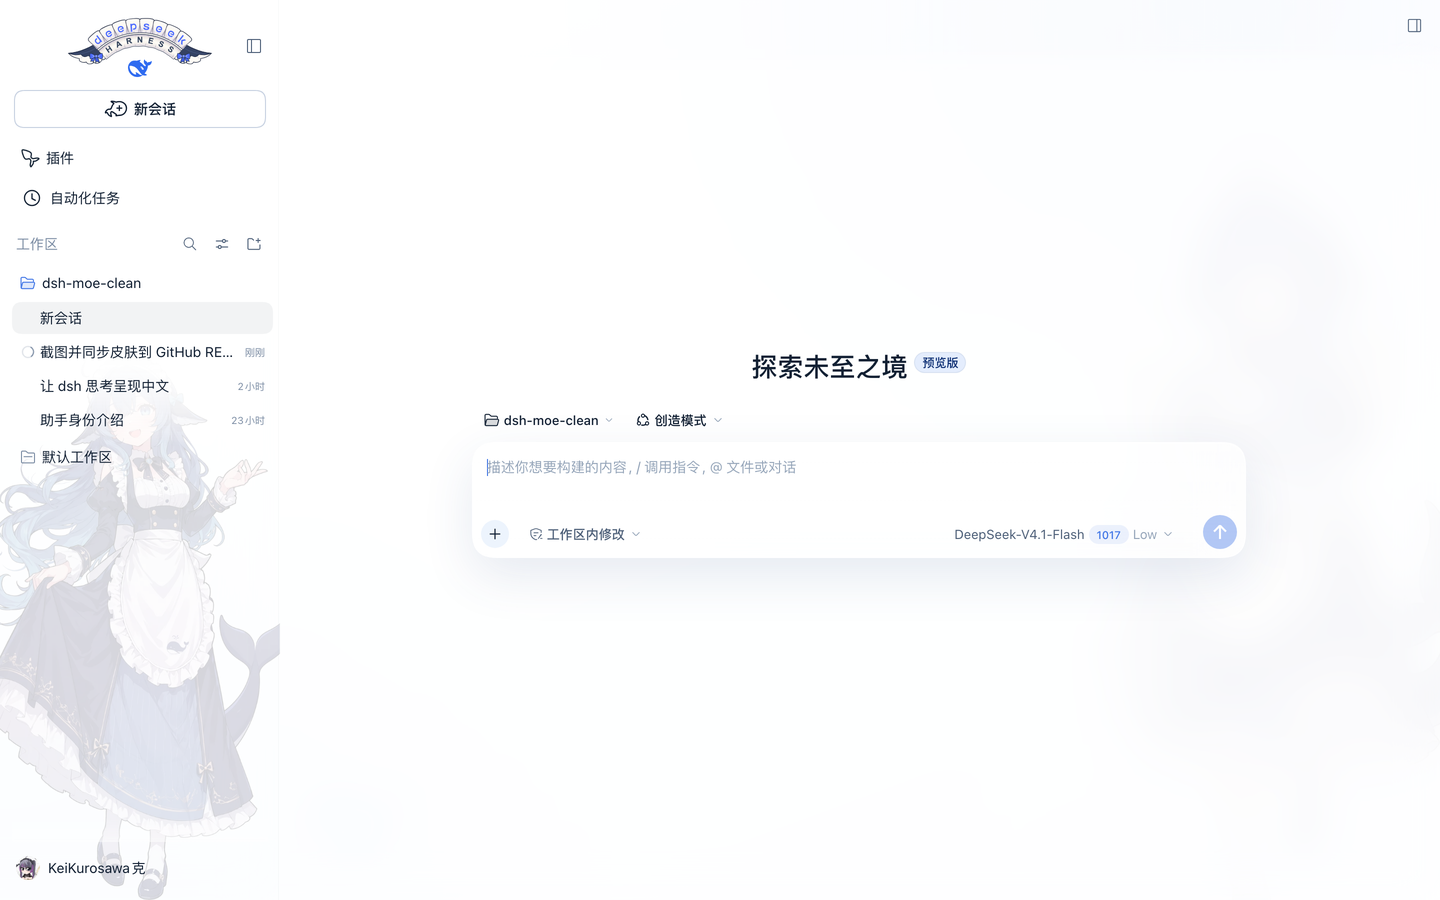
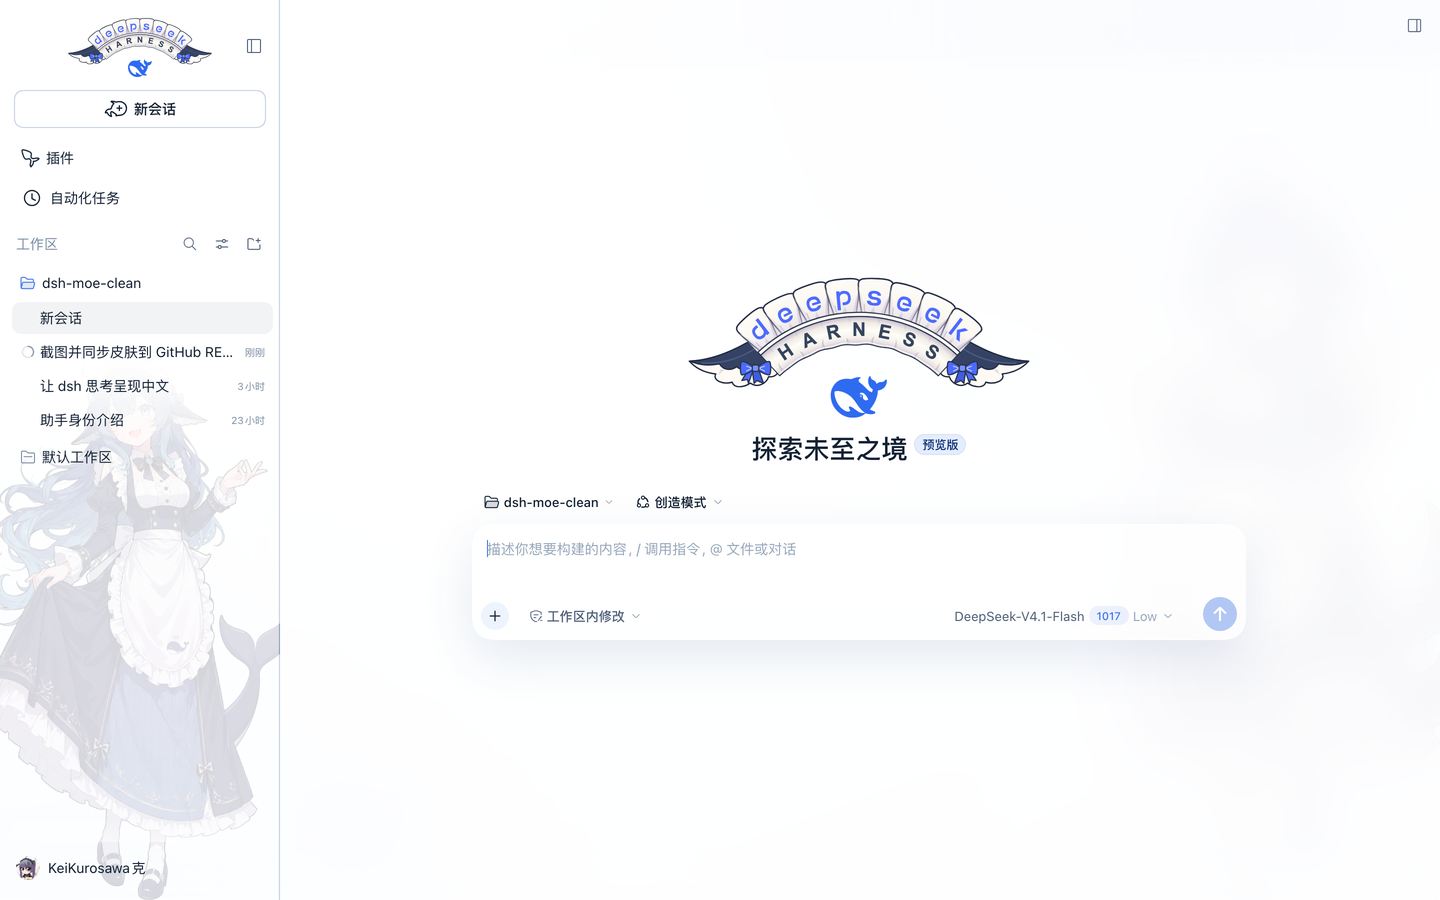
feat: put the crest above the empty-state title

diff --git a/lib/client.js b/lib/client.js
@@ -457,6 +457,44 @@ window.__ModuleLoader__.load({
 			svg.innerHTML = paths;
 		}
 
+		function hideStrayWhales() {
+			const hide = (el) => {
+				if (!el.hasAttribute("data-moe-hidden-whale")) {
+					el.dataset.moeHiddenWhale = el.style.display || "";
+				}
+				el.style.display = "none";
+			};
+			document.querySelectorAll('svg[viewBox="0 0 23.16 17.04"]').forEach(hide);
+			document.querySelectorAll('path[d^="M22.9168"]').forEach((path) => {
+				const svg = path.closest("svg");
+				if (svg) hide(svg);
+			});
+			document.querySelectorAll('img[src*="whale"], img[src*="Whale"]').forEach((img) => {
+				if (img.classList.contains("dsh-moe-stacked-brand")) return;
+				const r = img.getBoundingClientRect();
+				if (r.top >= 0 && r.top < 140 && r.left < 320) hide(img);
+			});
+		}
+
+		function placeHeroCrest() {
+			const mark = document.querySelector('[data-slot="conversation.hero.brand.mark"]');
+			const headline = mark && mark.closest('[class*="headline"]');
+			if (!headline) return;
+			const stack = headline.parentElement;
+			if (!stack) return;
+			let img = stack.querySelector(":scope > .dsh-moe-hero-crest");
+			if (!img) {
+				img = document.createElement("img");
+				img.className = "dsh-moe-hero-crest";
+				img.alt = "";
+				img.decoding = "async";
+				img.draggable = false;
+				img.src = ASSET + "deepseek-harness-maid-stacked.svg?v=0.15.2";
+				img.style.cssText = "display:block;width:360px;max-width:100%;height:auto;margin:0 auto;";
+				stack.insertBefore(img, headline);
+			}
+		}
+
 		function decorateIcons() {
 			document.querySelectorAll('button[aria-label*="新建会话"]').forEach((button) => {
 				const svg = button.querySelector("svg");
@@ -475,6 +513,8 @@ window.__ModuleLoader__.load({
 				const svg = button.querySelector("svg");
 				if (svg) svg.setAttribute("data-moe-nav-icon", "1");
 			});
+			hideStrayWhales();
+			placeHeroCrest();
 		}
 
 		const PLUG_GIF = ASSET + "whale-tail-wiggle.gif";
@@ -626,6 +666,11 @@ window.__ModuleLoader__.load({
 					document.querySelectorAll(".dsh-moe-harness-banner, .dsh-moe-stacked-brand").forEach((img) => img.remove());
 					document.querySelectorAll("[data-moe-stacked-brand]").forEach((el) => delete el.dataset.moeStackedBrand);
 					restoreHiddenBrandChildren();
+					document.querySelectorAll(".dsh-moe-hero-crest").forEach((img) => img.remove());
+					document.querySelectorAll("[data-moe-hidden-whale]").forEach((el) => {
+						el.style.display = el.dataset.moeHiddenWhale || "";
+						delete el.dataset.moeHiddenWhale;
+					});
 					document.querySelectorAll("button[data-moe-plug-hover] svg").forEach((svg) => { svg.style.visibility = ""; });
 					style.remove();
 					maid.remove();

diff --git a/CHANGELOG.md b/CHANGELOG.md
@@ -13,6 +13,8 @@ step, no runtime dependencies, only CSS tokens plus a few DOM decorations.
 - The over-broad logo-row hide was reverted; the empty-state headline's whale
   hitbox is now hidden on its own, so the title stays and the crest is never
   touched.
+- The empty state now repeats the crest above `探索未至之境`, centered on the
+  title axis; the sidebar crest is unchanged.
 
 ## 0.15.1
 
